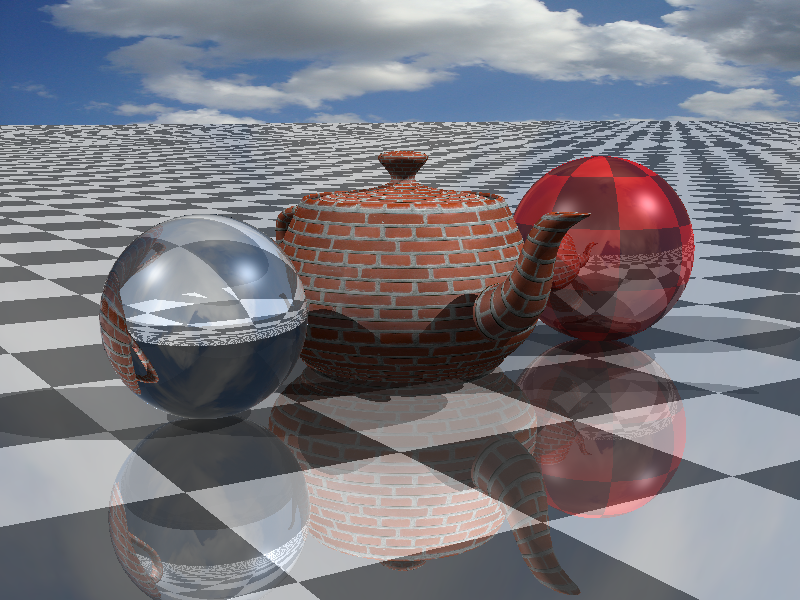
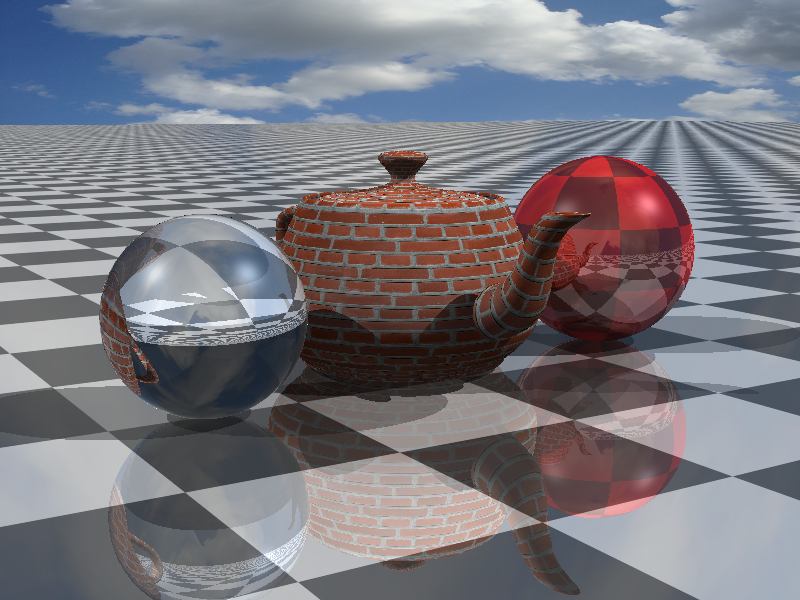
Add ray differential

Changed region(s): [[0.0, 0.18, 1.0, 0.48], [0.1875, 0.57, 0.2812, 0.6], [0.3125, 0.54, 0.375, 0.57]]

diff --git a/cs6620/prj7.html b/cs6620/prj7.html
@@ -16,5 +16,9 @@
     <div align="center">
         <img src="prj7.png">
     </div>
+    <h3 align="center">Outcome without ray differntial</h3>
+    <div align="center">
+        <img src="prj7_without.png">
+    </div>
 </body>
 </html>
